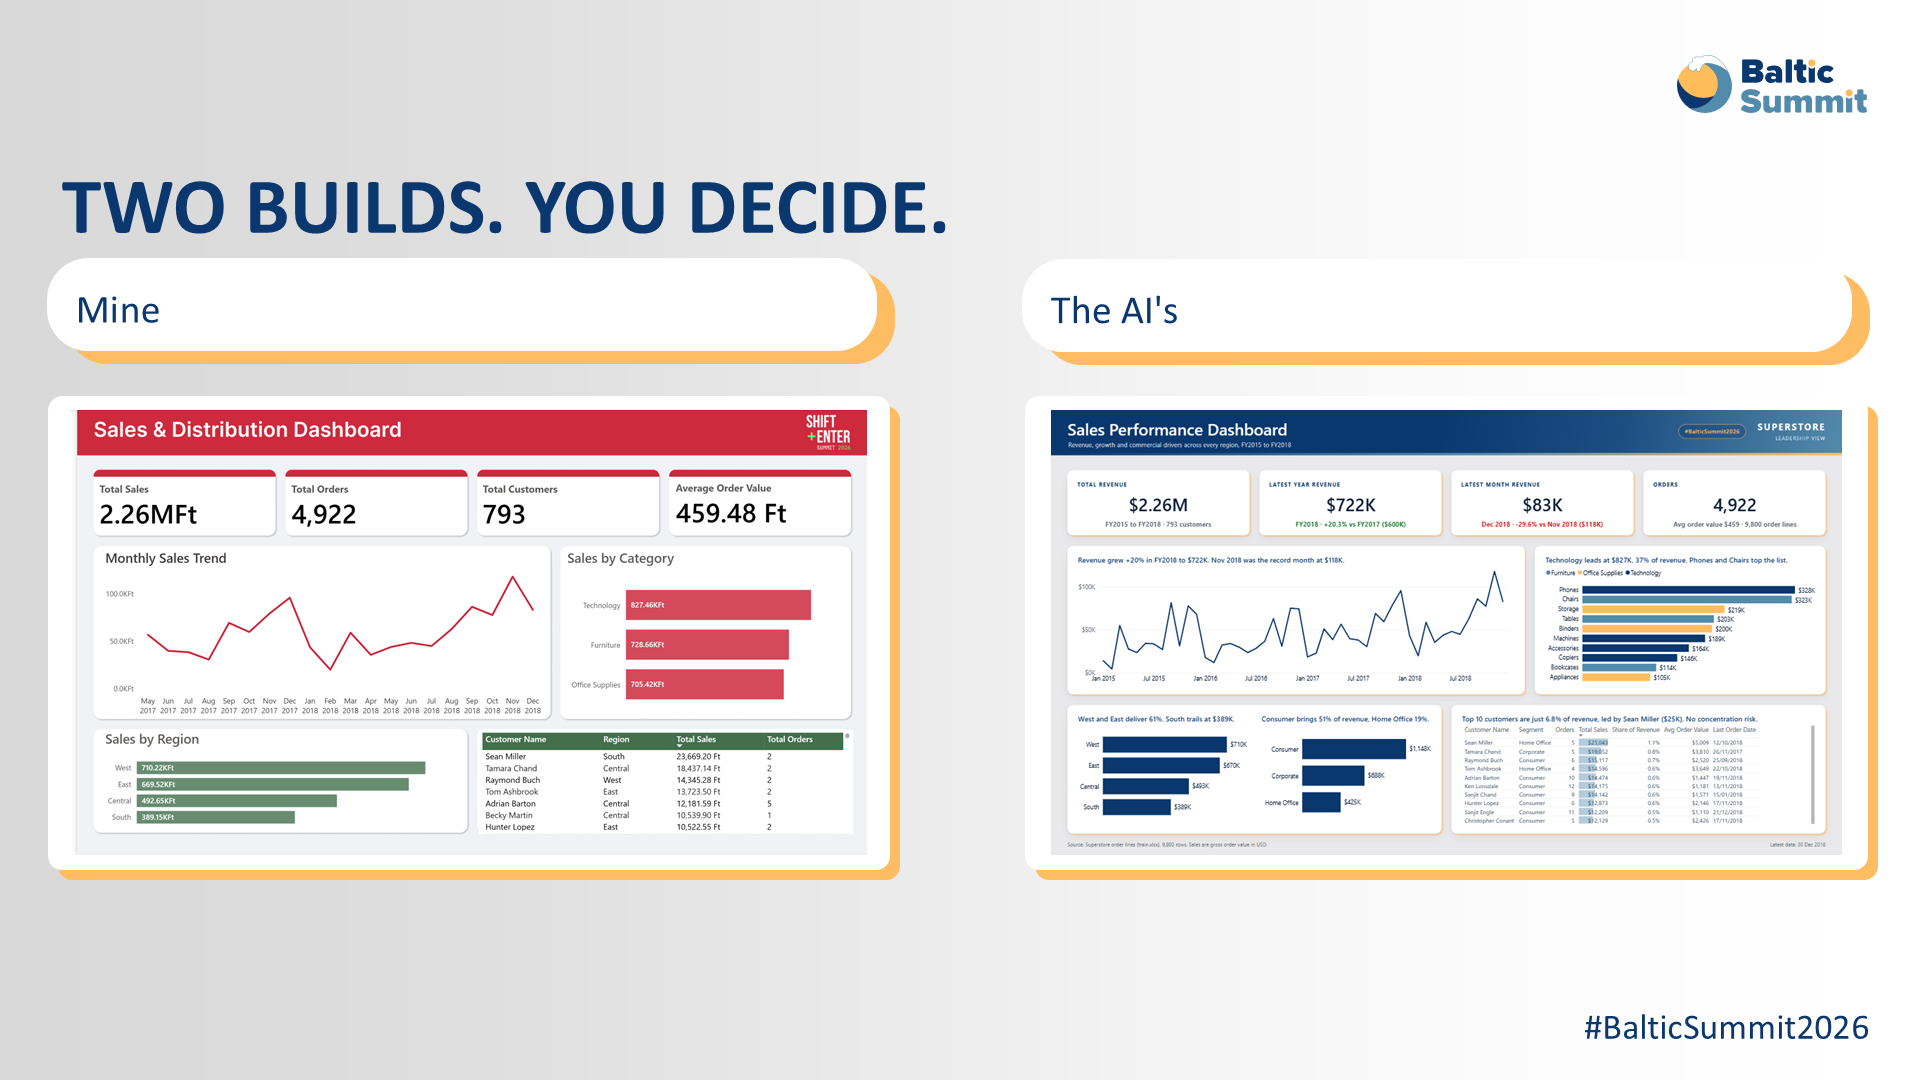
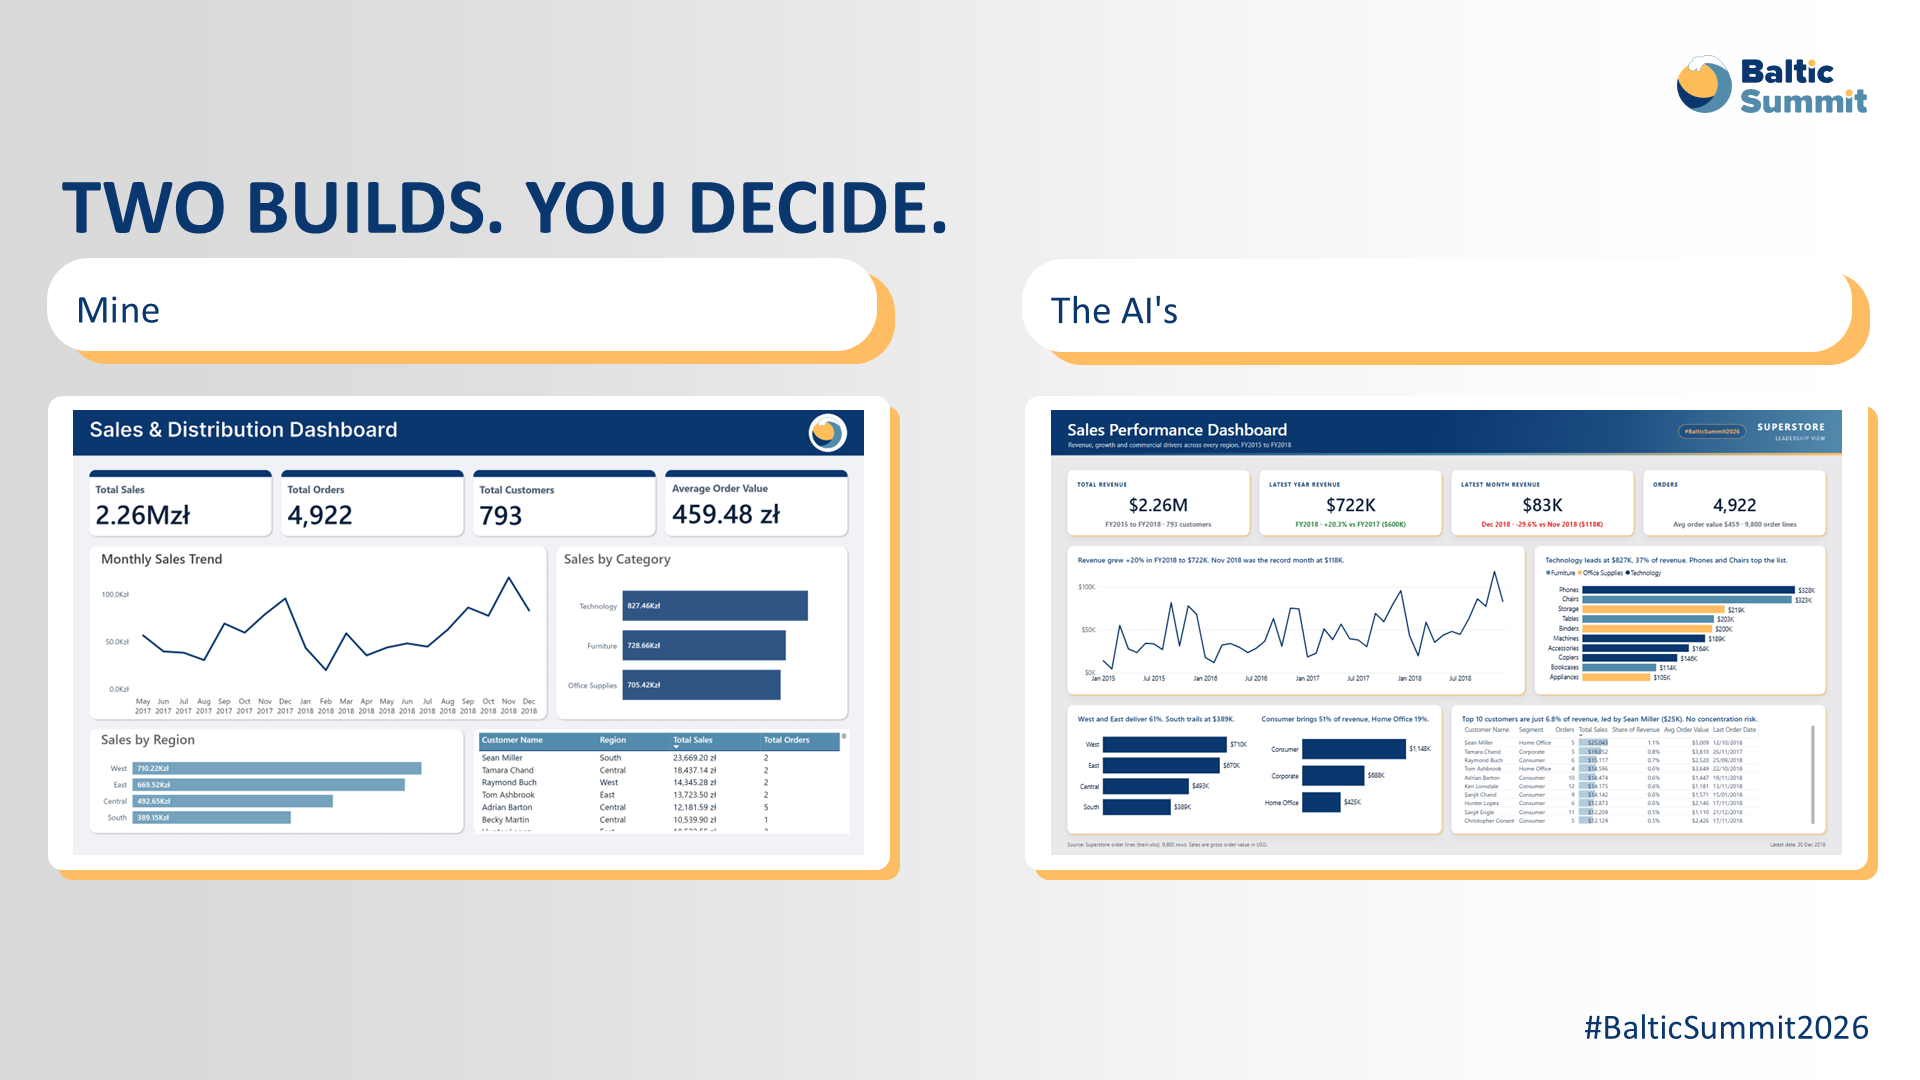
Baltic Summit deck: slide 11 shows Duncan's Baltic build (PLN) instead of the Budapest one

diff --git a/decks/baltic-summit-2026/slides.md b/decks/baltic-summit-2026/slides.md
@@ -82,7 +82,7 @@ Start the timer. Power BI Desktop, train.xlsx, go.
 <!-- .slide: data-background-image="https://raw.githubusercontent.com/DuncanBoyne/speakingdecks/main/decks/baltic-summit-2026/slides/11.png" data-background-size="contain" data-background-color="#E4E4E4" -->
 
 Notes:
-Left is my build from the ShiftEnter run in Budapest; flip to Desktop for today's. Right is the AI's build in today's palette. Hands up for left, hands up for right. Then ask why: that's the real answer.
+Left is my build, in the Baltic palette and zloty. Right is the AI's build in today's palette. Hands up for left, hands up for right. Then ask why: that's the real answer.
 
 ---
 
